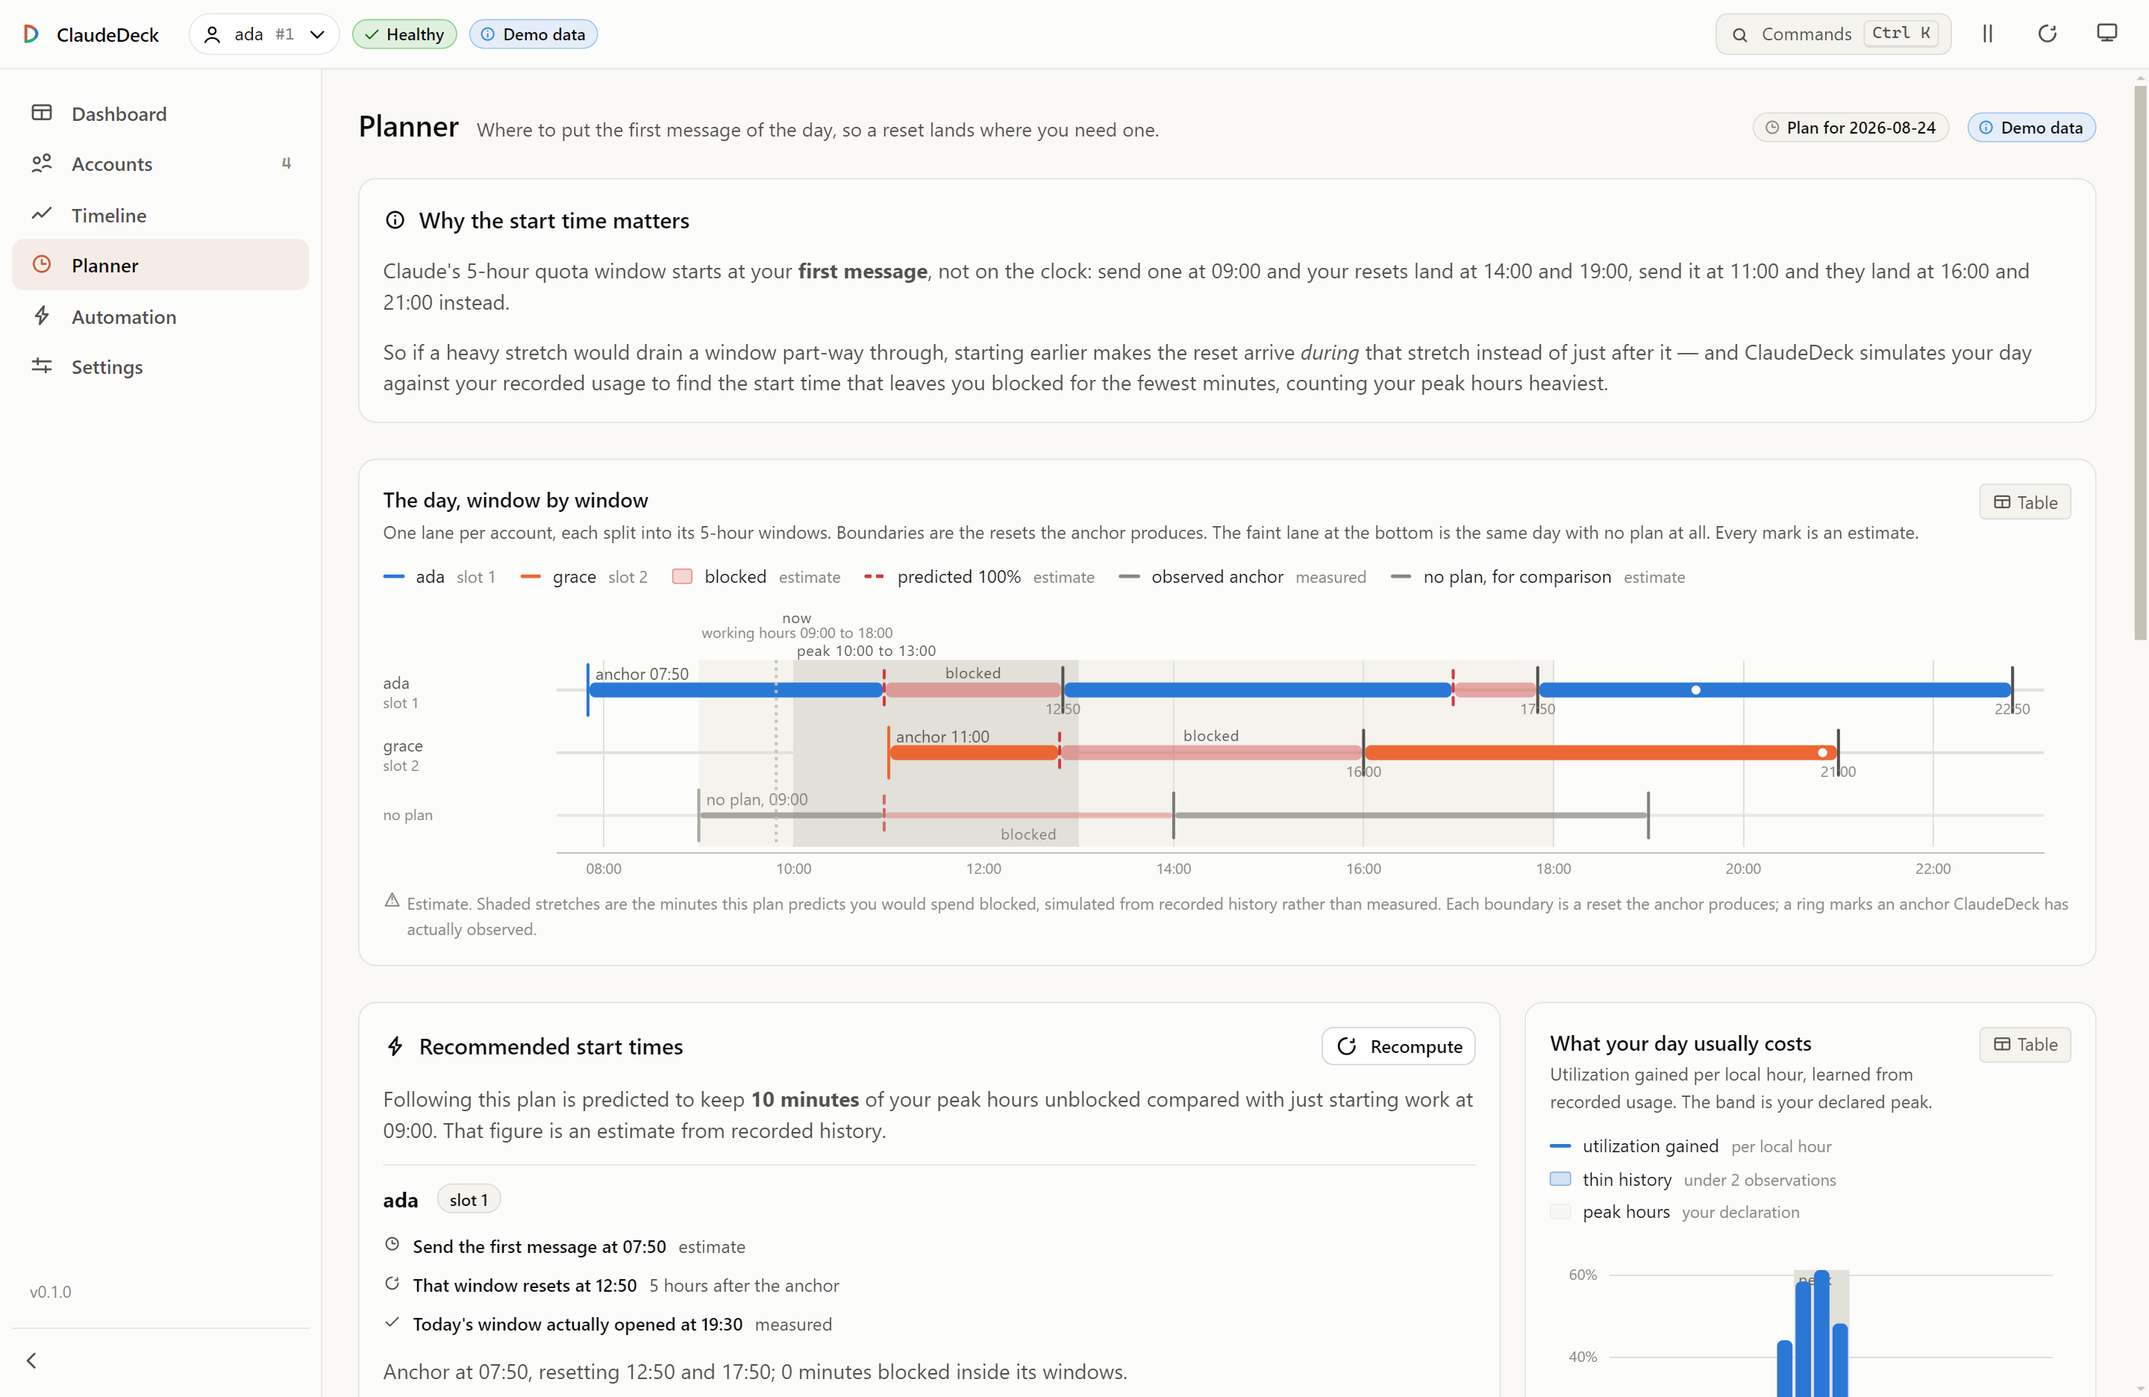
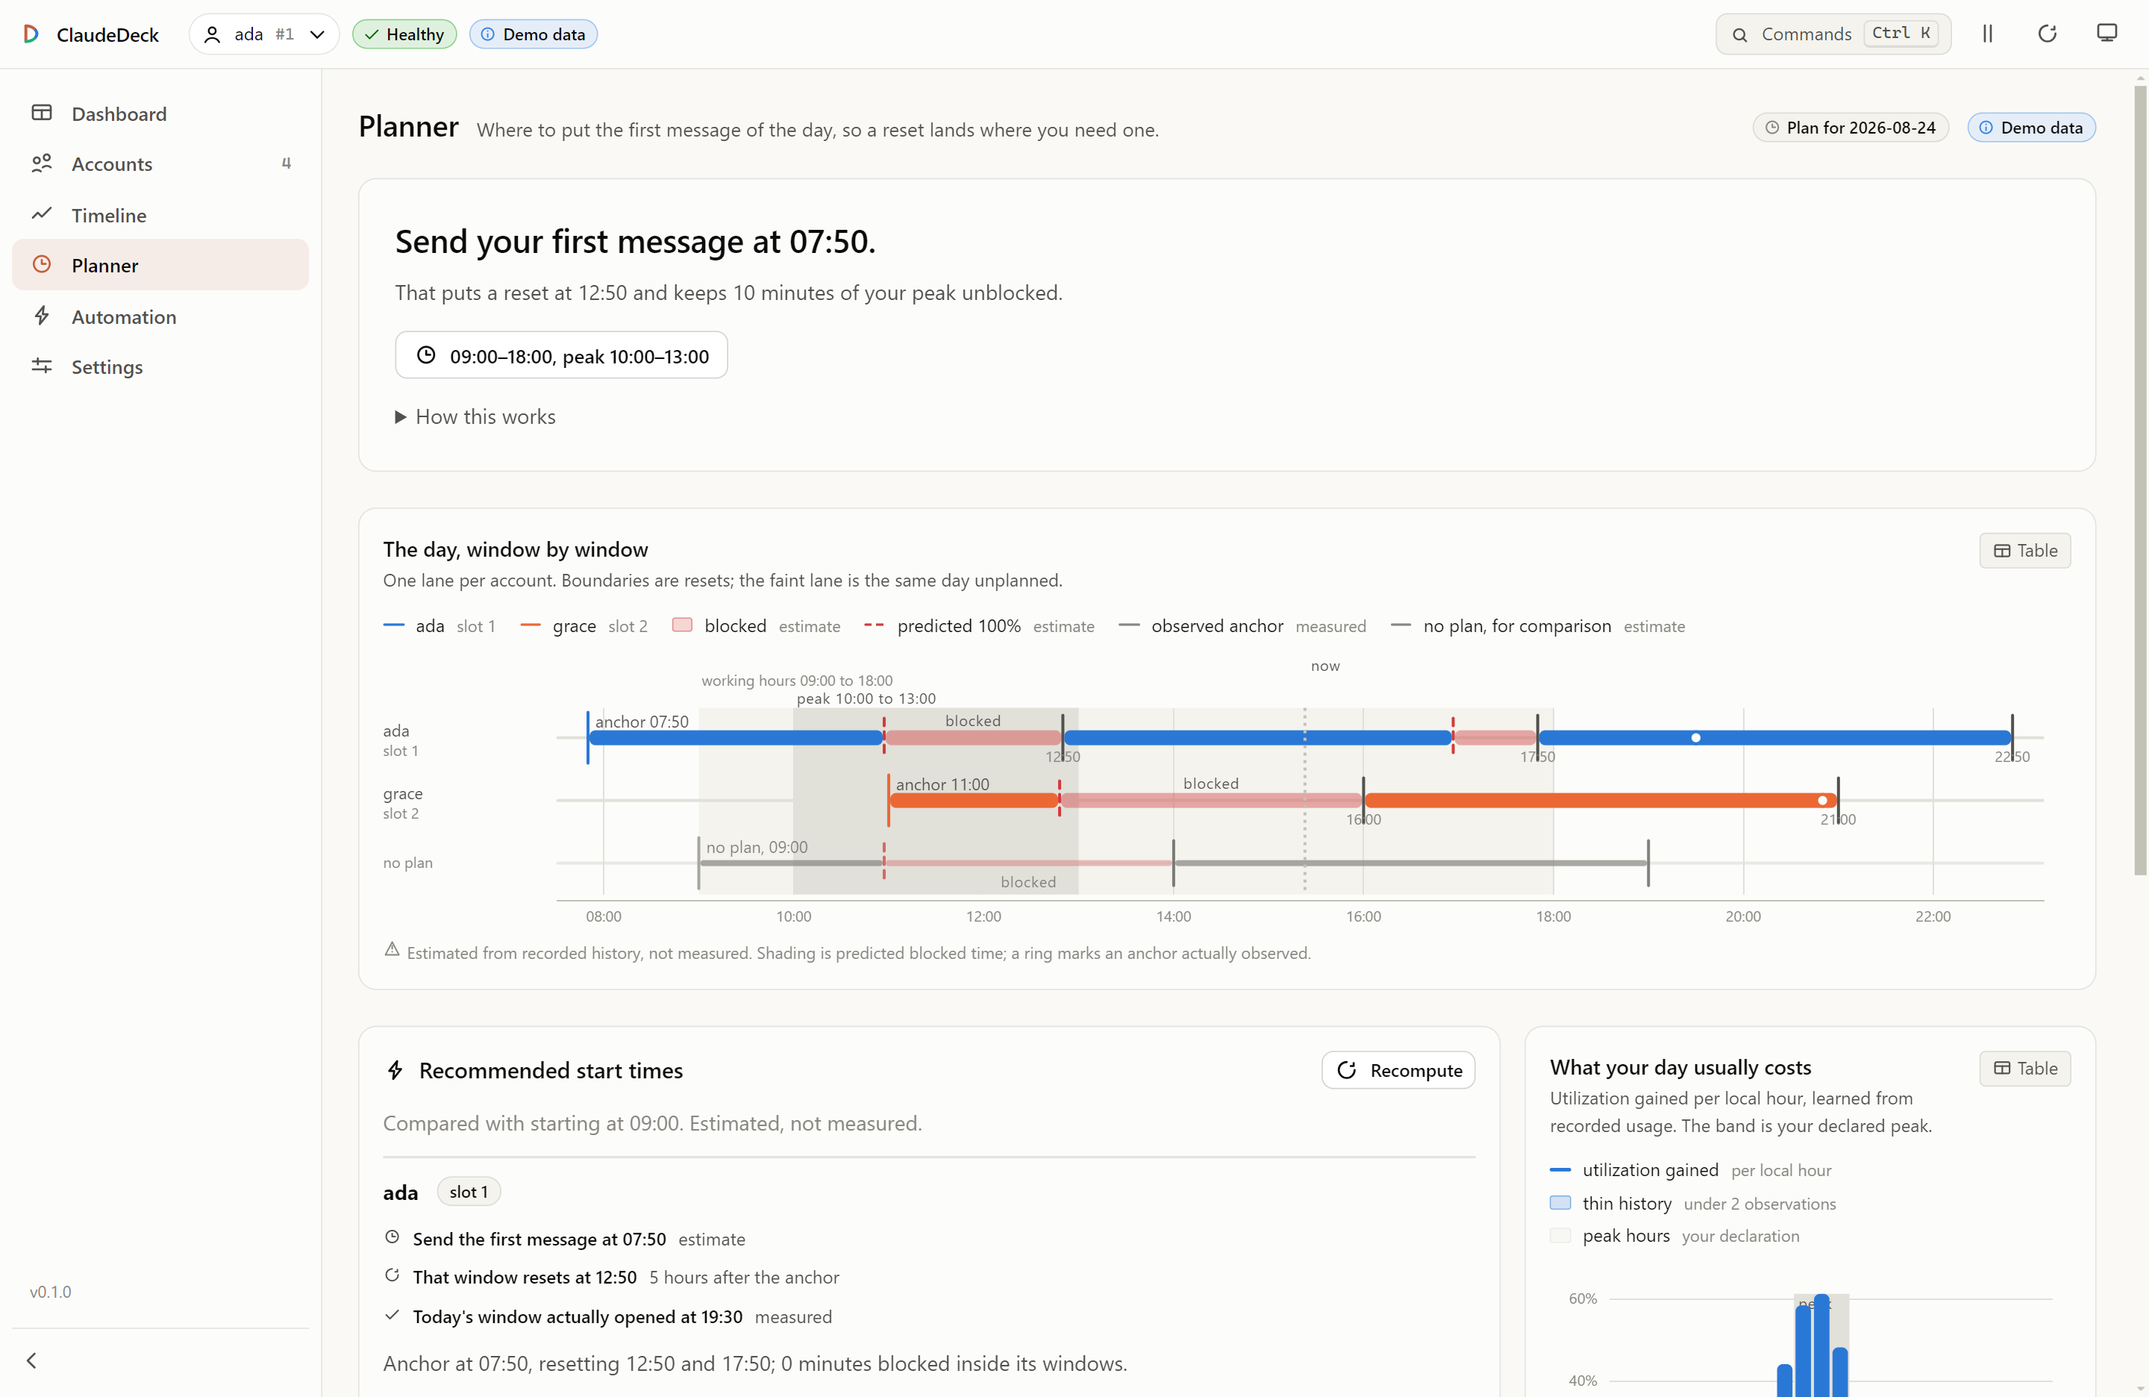
fix(planner): lead with the answer, and put the hours one click away
The Planner opened with two paragraphs explaining the 5-hour window, then a
chart, then a recommendation, and only at the very bottom — below three cards —
the editor for the one input the planner cannot derive. That is backwards: the
page spent its first screen teaching and buried the thing only the user can
supply.

Now the first thing on the page is a single sentence saying what to do:

  Send your first message at 07:50.
  That puts a reset at 12:50 and keeps 10 minutes of your peak unblocked.

The headline picks itself in the order the reader can act: a missing input beats
a missing measurement beats a real recommendation. So it reads "Tell ClaudeDeck
when your day matters" while the hours are still defaults, "Nothing to recommend
yet — no usage recorded" until there is history, and "Just start when you start"
when no start time genuinely beats another.

Beside it, the hours as a button showing their current value, opening a dialog
with the same ScheduleEditor the onboarding step uses. Setting them is one click
from the top of the page instead of a scroll to the bottom, and the button reads
"Set my hours" rather than showing a value while they are still a guess.

The explanation is still there, folded into a native <details> — keyboard
operable and announced for free, which a hand-rolled disclosure would have to
re-earn. Also cut the chart subtitle from three sentences to one, shortened the
estimate caveat, and deleted the paragraph under "Recommended start times"
[…]

diff --git a/src/renderer/views/Planner.tsx b/src/renderer/views/Planner.tsx
@@ -32,6 +32,7 @@ import { Badge } from '../components/Badge';
 import { Button } from '../components/Button';
 import { EmptyState } from '../components/EmptyState';
 import { Icon } from '../components/Icon';
+import { Modal } from '../components/Modal';
 import { ScheduleEditor } from '../components/ScheduleEditor';
 import { Toggle } from '../components/Toggle';
 import { ChartFrame, useNow } from '../charts/ChartFrame';
@@ -147,6 +148,9 @@ export function Planner() {
   const [confirming, setConfirming] = useState<number | null>(null);
   const [busySlot, setBusySlot] = useState<number | null>(null);
   const [anchorResults, setAnchorResults] = useState<Record<number, AnchorResult>>({});
+  // Declared with the rest of the state: this sits above two early returns,
+  // and a hook below them changes the hook count between renders.
+  const [hoursOpen, setHoursOpen] = useState(false);
 
   // Every poll can move the plan, and so can any change to the hours it is
   // scored against; those two things are the whole trigger for a re-plan.
@@ -284,6 +288,43 @@ export function Planner() {
   // about an invented day rather than a finding about this one.
   const observedHours = (plan?.profile.samples ?? []).filter((count) => count > 0).length;
 
+
+  /**
+   * The one-line answer, chosen so the page opens with what to do rather than
+   * with why it matters. Order is deliberate: a missing input beats a missing
+   * measurement beats a real recommendation, because that is the order in which
+   * the user can act on them.
+   */
+  const headline = ((): { text: string; sub?: string } => {
+    if (planLoading && !plan) return { text: 'Working out today’s plan…' };
+    if (!plan) return { text: 'No plan yet.', sub: 'Set your hours and ClaudeDeck will work one out.' };
+    if (!cfg.configured) {
+      return {
+        text: 'Tell ClaudeDeck when your day matters.',
+        sub: 'It is planning against default hours right now, so treat the times below as a placeholder.',
+      };
+    }
+    if (observedHours === 0) {
+      return {
+        text: 'Nothing to recommend yet — no usage recorded.',
+        sub: 'Leave ClaudeDeck running through a working day and this becomes a real answer.',
+      };
+    }
+    const first = plan.accounts[0];
+    if (!first) return { text: 'No account to plan for.', sub: 'Add an account and come back.' };
+    if (plan.peakMinutesSaved <= 0) {
+      return {
+        text: 'Just start when you start.',
+        sub: 'No start time beats any other today, so there is nothing to plan around.',
+      };
+    }
+    const reset = first.outcome.windows[0]?.end ?? first.outcome.anchorAt + FIVE_HOUR_MS;
+    return {
+      text: `Send your first message at ${formatClock(first.outcome.anchorAt)}.`,
+      sub: `That puts a reset at ${formatClock(reset)} and keeps ${minutesText(plan.peakMinutesSaved)} of your peak unblocked.`,
+    };
+  })();
+
   const anchorBySlot = new Map((anchors ?? []).map((entry) => [entry.slot, entry]));
   const lanes: WindowPlanLane[] = (plan?.accounts ?? []).map((account) => ({
     slot: account.slot,
@@ -342,24 +383,40 @@ export function Planner() {
         {state.demoMode ? <Badge tone="info">Demo data</Badge> : null}
       </header>
 
-      <section className="cd-card" aria-labelledby="cd-pl-why">
-        <div className="cd-card-head">
-          <Icon name="info" />
-          <h2 className="cd-h2" id="cd-pl-why">
-            Why the start time matters
-          </h2>
+      {/* The answer first. This page used to open with two paragraphs of theory
+          and bury the hours editor at the bottom, which is backwards: the one
+          thing only the user can supply was the hardest thing to find. */}
+      <section className="cd-answer" aria-labelledby="cd-pl-answer">
+        <h2 className="cd-sr-only" id="cd-pl-answer">
+          Today
+        </h2>
+        <p className="cd-answer-line">{headline.text}</p>
+        {headline.sub ? <p className="cd-answer-sub">{headline.sub}</p> : null}
+        <div className="cd-answer-actions">
+          {!cfg.configured ? (
+            <Button variant="primary" icon="clock" onClick={() => setHoursOpen(true)}>
+              Set my hours
+            </Button>
+          ) : (
+            <Button variant="secondary" icon="clock" onClick={() => setHoursOpen(true)}>
+              {`${formatHHMM(governing.work.start)}–${formatHHMM(governing.work.end)}, peak ${formatHHMM(governing.peak.start)}–${formatHHMM(governing.peak.end)}`}
+            </Button>
+          )}
+          <details className="cd-explainer">
+            <summary>How this works</summary>
+            <p>
+              Your 5-hour window starts at your <strong>first message</strong>, not on the clock.
+              Start at 09:00 and resets land 14:00 and 19:00; start at 11:00 and they land 16:00 and
+              21:00.
+            </p>
+            <p>
+              So if a busy stretch would drain a window part-way through, starting earlier makes the
+              reset arrive <em>during</em> it instead of just after. ClaudeDeck simulates your day
+              from recorded usage and picks the start time that blocks you least, weighting your
+              peak hours heaviest.
+            </p>
+          </details>
         </div>
-        <p className="cd-secondary">
-          Claude&apos;s 5-hour quota window starts at your <strong>first message</strong>, not on the
-          clock: send one at 09:00 and your resets land at 14:00 and 19:00, send it at 11:00 and they
-          land at 16:00 and 21:00 instead.
-        </p>
-        <p className="cd-secondary">
-          So if a heavy stretch would drain a window part-way through, starting earlier makes the
-          reset arrive <em>during</em> that stretch instead of just after it — and ClaudeDeck
-          simulates your day against your recorded usage to find the start time that leaves you
-          blocked for the fewest minutes, counting your peak hours heaviest.
-        </p>
       </section>
 
       {error ? (
@@ -428,11 +485,7 @@ export function Planner() {
       {plan ? (
         <ChartFrame
           title="The day, window by window"
-          subtitle={
-            `One lane per account, each split into its 5-hour windows. Boundaries are the resets the ` +
-            `anchor produces. The faint lane at the bottom is the same day with no plan at all. ` +
-            `Every mark is an estimate.`
-          }
+          subtitle="One lane per account. Boundaries are resets; the faint lane is the same day unplanned."
           height={windowPlanHeight(lanes.length, true)}
           tableRows={windowPlanTable({ lanes, baseline: plan.baseline }) ?? undefined}
         >
@@ -485,11 +538,8 @@ export function Planner() {
                   by starting early.
                 </p>
               ) : (
-                <p className="cd-secondary">
-                  Following this plan is predicted to keep{' '}
-                  <strong>{minutesText(plan.peakMinutesSaved)}</strong> of your peak hours unblocked
-                  compared with just starting work at {formatHHMM(governing.work.start)}. That figure
-                  is an estimate from recorded history.
+                <p className="cd-muted">
+                  {`Compared with starting at ${formatHHMM(governing.work.start)}. Estimated, not measured.`}
                 </p>
               )}
 
@@ -648,22 +698,48 @@ export function Planner() {
         </div>
       </div>
 
-      <section className="cd-card" aria-labelledby="cd-pl-hours">
-        <div className="cd-card-head">
-          <Icon name="clock" />
-          <h2 className="cd-h2" id="cd-pl-hours">
-            Your hours
-          </h2>
-          <span className="cd-spacer" />
-          {cfg.configured ? null : <Badge tone="warning">Defaults, not yours</Badge>}
-        </div>
+      {/* The hours live in a dialog reachable from the top of the page, not in a
+          card below three charts. It is the only input the planner cannot derive,
+          so it should never take scrolling to find. */}
+      <Modal
+        open={hoursOpen}
+        onClose={() => setHoursOpen(false)}
+        title="Your hours"
+        description="ClaudeDeck learns when you burn quota. Only you know when it matters."
+        size="md"
+        footer={
+          <>
+            {dirty ? (
+              <Button variant="ghost" onClick={() => setDraft(null)} disabled={saving}>
+                Discard changes
+              </Button>
+            ) : null}
+            <Button variant="ghost" onClick={() => setHoursOpen(false)} disabled={saving}>
+              Close
+            </Button>
+            <Button
+              variant="primary"
+              icon="check"
+              busy={saving}
+              disabled={!dirty || problems.length > 0 || state.settings.safeMode}
+              onClick={() => void saveSchedule()}
+            >
+              Save these hours
+            </Button>
+          </>
+        }
+      >
+        {cfg.configured ? null : (
+          <div className="cd-note cd-note--info">
+            <Icon name="info" />
+            <span className="cd-note-body">
+              <span className="cd-note-title">These are defaults, not your hours</span>
+              <span>Change them and press save, and the plan stops calling itself a guess.</span>
+            </span>
+          </div>
+        )}
 
-        <ScheduleEditor
-          value={schedule}
-          onChange={setDraft}
-          disabled={saving}
-          footnote="Times are stored as minutes from local midnight and edited here as HH:MM. The planner only weights the part of your peak that falls inside working hours."
-        />
+        <ScheduleEditor value={schedule} onChange={setDraft} disabled={saving} showLabel={false} />
 
         {state.settings.safeMode ? (
           <p className="cd-muted">
@@ -681,30 +757,8 @@ export function Planner() {
             </span>
           </div>
         ) : null}
+      </Modal>
 
-        <div className="cd-row">
-          <Button
-            variant="primary"
-            icon="check"
-            busy={saving}
-            disabled={!dirty || problems.length > 0}
-            onClick={() => void saveSchedule()}
-          >
-            Save these hours
-          </Button>
-          {dirty ? (
-            <Button variant="ghost" onClick={() => setDraft(null)} disabled={saving}>
-              Discard changes
-            </Button>
-          ) : null}
-          <span className="cd-spacer" />
-          {savedAt !== null && !dirty ? (
-            <span className="cd-muted">
-              <Icon name="check" size={12} /> {`Saved at ${formatClock(savedAt)}.`}
-            </span>
-          ) : null}
-        </div>
-      </section>
     </div>
   );
 }

diff --git a/src/renderer/views/views.css b/src/renderer/views/views.css
@@ -377,3 +377,81 @@
   color: var(--text-primary);
   font-weight: 600;
 }
+
+/* --- planner: answer first ---------------------------------------------- */
+/*
+ * The Planner used to open with two paragraphs of theory and keep the hours
+ * editor below three charts. This block is the correction: one sentence of
+ * answer, the user's own hours one click away, and the explanation folded up
+ * for whoever wants it.
+ */
+
+.cd-answer {
+  display: flex;
+  flex-direction: column;
+  gap: var(--space-2);
+  padding: var(--space-5);
+  border-radius: var(--radius-lg);
+  background: var(--surface-1);
+  border: 1px solid var(--border);
+}
+
+.cd-answer-line {
+  margin: 0;
+  font-size: 1.375rem;
+  font-weight: 600;
+  letter-spacing: -0.01em;
+  color: var(--text-primary);
+  text-wrap: pretty;
+}
+
+.cd-answer-sub {
+  margin: 0;
+  max-width: 68ch;
+  color: var(--text-secondary);
+  text-wrap: pretty;
+}
+
+.cd-answer-actions {
+  display: flex;
+  align-items: center;
+  gap: var(--space-3);
+  flex-wrap: wrap;
+  margin-top: var(--space-2);
+}
+
+/* A native <details>: keyboard-operable and screen-reader-announced for free,
+   which a hand-rolled disclosure would have to re-earn. */
+.cd-explainer {
+  flex: 1 1 100%;
+  font-size: 0.875rem;
+  color: var(--text-secondary);
+}
+
+.cd-explainer > summary {
+  cursor: pointer;
+  width: fit-content;
+  padding: 2px 0;
+  color: var(--text-secondary);
+  border-radius: var(--radius-sm);
+}
+
+.cd-explainer > summary:hover {
+  color: var(--text-primary);
+}
+
+.cd-explainer > summary:focus-visible {
+  outline: 2px solid var(--focus-ring);
+  outline-offset: 2px;
+}
+
+.cd-explainer[open] > summary {
+  margin-bottom: var(--space-2);
+  color: var(--text-primary);
+}
+
+.cd-explainer p {
+  margin: 0 0 var(--space-2);
+  max-width: 74ch;
+  text-wrap: pretty;
+}

diff --git a/src/renderer/charts/WindowPlan.tsx b/src/renderer/charts/WindowPlan.tsx
@@ -550,9 +550,8 @@ export function WindowPlan({
       <p className="cd-burn-foot" style={{ display: 'flex', alignItems: 'flex-start', gap: '4px' }}>
         <Icon name="alert-triangle" size={12} />
         <span>
-          Estimate. Shaded stretches are the minutes this plan predicts you would spend blocked,
-          simulated from recorded history rather than measured. Each boundary is a reset the anchor
-          produces; a ring marks an anchor ClaudeDeck has actually observed.
+          Estimated from recorded history, not measured. Shading is predicted blocked time; a ring
+          marks an anchor actually observed.
         </span>
       </p>
 

diff --git a/README.md b/README.md
@@ -65,7 +65,7 @@ situation legible before it bites:
 
 | Planner | Declaring your hours |
 |---|---|
-| <img src="assets/screenshots/planner-light.png" alt="Planner view in light mode: the day window by window, with recommended first-message times and the learned hourly usage profile"> | <img src="assets/screenshots/onboarding-hours.png" alt="Onboarding step three: picking the weekdays, working hours and peak hours the planner should optimise against"> |
+| <img src="assets/screenshots/planner-light.png" alt="Planner view in light mode: the day window by window, with recommended first-message times and the learned hourly usage profile"> | <img src="assets/screenshots/planner-hours.png" alt="The hours dialog: weekday chips, working and peak hours, and a strip showing the declared day"> |
 
 ---
 
@@ -168,6 +168,10 @@ Your hours are **declared, not inferred** — ClaudeDeck learns *when you burn
 quota*, but only you know *when it matters*. A burst of 3am activity might be the
 one night you were firefighting. So the planner stays off until you set them, and
 says plainly when it is running on defaults you never confirmed.
+
+You are asked for them during setup, and they stay one click from the Planner:
+
+<img src="assets/screenshots/onboarding-hours.png" width="560" alt="Onboarding step three: weekday chips, working hours and peak hours, with a strip showing the declared day">
 
 The mechanic, the maths, and an honest account of how wrong the numbers can be:
 **[docs/SESSION-PLANNER.md](docs/SESSION-PLANNER.md)**.
